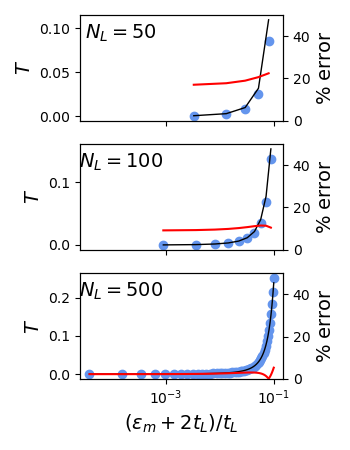
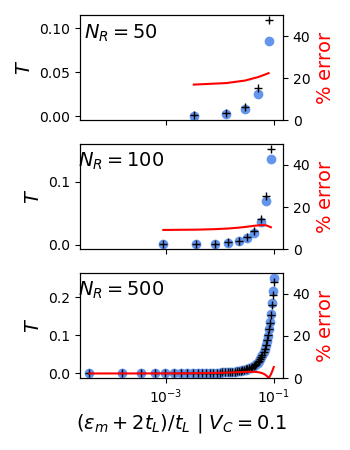
debugging bardeen kernel_mixed

diff --git a/transport/bardeen/__init__.py b/transport/bardeen/__init__.py
@@ -129,6 +129,7 @@ def kernel(tinfty, tL, tLprime, tR, tRprime, Vinfty, VL, VLprime, VR, VRprime, N
                 interval_width = abs(Enbs[alpha,-2]-Enbs[alpha,-1]);
                 if(n_bound_left == n_bound_right):
                     if(not np.any(Enbs-Emas)): interval_width = 1e-9;
+                interval_width = 1e-9;
                 for n in range(n_bound_right):
                     if( abs(Emas[alpha,m] - Enbs[beta,n]) < interval_width/2):
                         Nbma += 1;
@@ -205,20 +206,33 @@ def kernel_mixed(tinfty, tL, tLprime, tR, tRprime, Vinfty, VL, VLprime, VR, VRpr
     # physical system
     Hsys_4d, offset = Hsysmat(tinfty, tL, tR, Vinfty, VL, VR, Ninfty, NL, NR, HC);
     if(verbose > 9):
-        for m in range(10):
-            psi0 = psims[m];
-            print(m,Ems[m],np.dot(np.conj(psi0[::2]),psi0[::2]),np.dot(np.conj(psi0[1::2]),psi0[1::2]));
-        assert False
+        # plot the potential
         import matplotlib.pyplot as plt
         jvals = np.array(range(len(Hsys_4d))) + offset;
         myfig,myaxes = plt.subplots(n_loc_dof,sharex=True);
         if n_loc_dof == 1: myaxes = [myaxes];
         for alpha in range(n_loc_dof):
-            Hs = [HL_4d,HR_4d,Hsys_4d,Hsys_4d-HL_4d,Hsys_4d-HR_4d];
-            Hstrs = ["HL","HR","Hsys","Hsys-HL","Hsys-HR"];
+            Hs = [HL_4d,HR_4d,Hsys_4d,Hsys_4d-HL_4d,Hsys_4d-HR_4d]; Hstrs = ["HL","HR","Hsys","Hsys-HL","Hsys-HR"];
             for Hi in range(len(Hs)):
-                myaxes[alpha].plot(jvals, Hi*0.001+np.diag(Hs[Hi][:,:,alpha,alpha]),label = Hstrs[Hi]);
-        plt.legend();plt.show();assert False;
+                myaxes[alpha].plot(jvals, Hi*1e-4+np.diag(Hs[Hi][:,:,alpha,alpha]),label = Hstrs[Hi]);
+        plt.legend();plt.show();
+        # properties of the wfs
+        # operators
+        Sz_op = np.diagflat([0.5 if i%2==0 else -0.5 for i in range(len(psims[0]))]);
+        Sx_op = np.zeros_like(Sz_op);
+        for i in range(len(Sx_op)-1): Sx_op[i,i+1] = 0.5; Sx_op[i+1,i] = 0.5;
+        for m in range(6):
+            psim = psims[m];
+            print("-psi_",m,Ems[m]);
+            print("\t",np.dot(np.conj(psim),np.dot(Sz_op,psim)),np.dot(np.conj(psim),np.dot(Sx_op,psim)),not np.any(psim-np.dot(Sz_op,psim)),not np.any(psim-np.dot(Sx_op,psim)));
+            width = NL+len(HC)
+            mid = Ninfty+width//2;
+            print("\t",np.real(np.diag(HL)[-2+2*mid-width:2*(mid+1)-width]),np.real(np.diag(HL)[2*mid+width:2*(mid+1)+width+2]));
+            print("\t",np.real(psim[2*(mid-1):2*(mid+2)].round(2)));
+            print("\t",np.real(psim[2*(mid-1):2*(mid+2)][::-1].round(2)));
+            assert False
+        assert False
+        
 
     # average matrix elements over final states |k_n \beta>
     # with the same energy as the intial state |k_m \alpha>

diff --git a/run_bard_menez_mixed.py b/run_bard_menez_mixed.py
@@ -93,9 +93,11 @@ if True:
         # central region
         tC = 1.0*tL;
         #VC = abs(Jval/4)*tL;
-        NC = 1;
+        NC = 3;
         if barrier: NC = 11;
         my_kondo = h_kondo(Jval,0.5)[alphas[0]:alphas[-1]+1,alphas[0]:alphas[-1]+1];
+        my_kondo = np.array([[0.3,0],[0,-0.3]]);
+        my_kondo = np.array([[0,1e-9],[1e-9,0]]);
         HC = np.zeros((NC,NC,n_loc_dof,n_loc_dof),dtype=complex);
         for NCi in range(NC):
             for NCj in range(NC):
@@ -146,7 +148,7 @@ if True:
             Evals, Tvals = bardeen.kernel_mixed(tinfty,tL,tinfty, tR, tinfty,
                                       Vinfty, VL, Vinfty, VR, Vinfty,
                                       Ninfty, NL, NR, HC, HCprime,
-                                      E_cutoff=0.1,verbose=1);
+                                      E_cutoff=0.1,verbose=10);
         else:
             Evals, Tvals = bardeen.kernel(tinfty,tL,tinfty, tR, tinfty,
                                       Vinfty, VL, Vinfty, VR, Vinfty,

diff --git a/run_bard_barrier.py b/run_bard_barrier.py
@@ -104,7 +104,7 @@ if True:
         axright.set_ylabel("$\%$ error",fontsize=myfontsize,color=accentcolors[1]);
         axright.set_ylim(0,50);
         axes[NLi].set_ylabel('$T$',fontsize=myfontsize);
-        axes[NLi].set_title('$N_L = '+str(NLvals[NLi])+'$', x=0.2, y = 0.7, fontsize=myfontsize);
+        axes[NLi].set_title('$N_R = '+str(NLvals[NLi])+'$', x=0.2, y = 0.7, fontsize=myfontsize);
 
     # format and show
     axes[-1].set_xscale('log', subs = []);
@@ -113,7 +113,7 @@ if True:
     plt.show();
 
 # T vs VLR prime
-if False:
+if True:
 
     Vprimevals = [Vinfty/10,Vinfty/5,Vinfty];
     numplots = len(Vprimevals);
